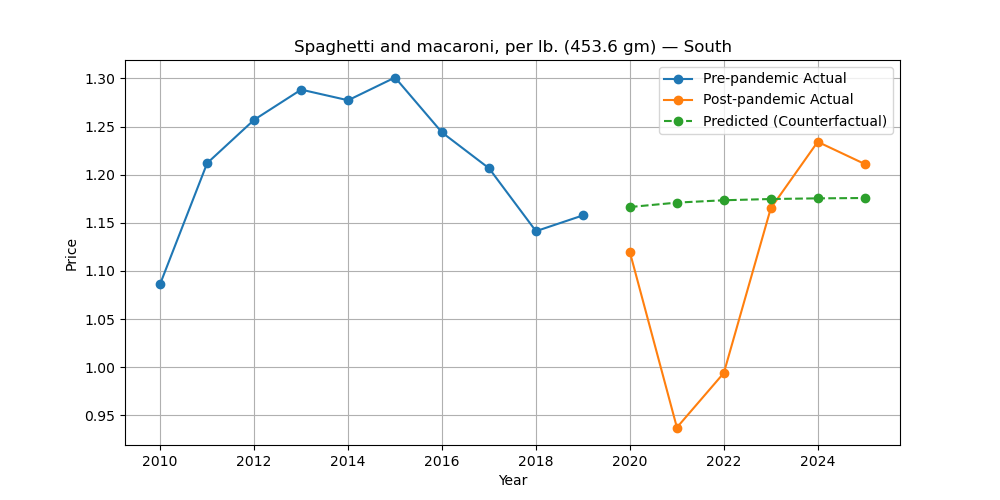
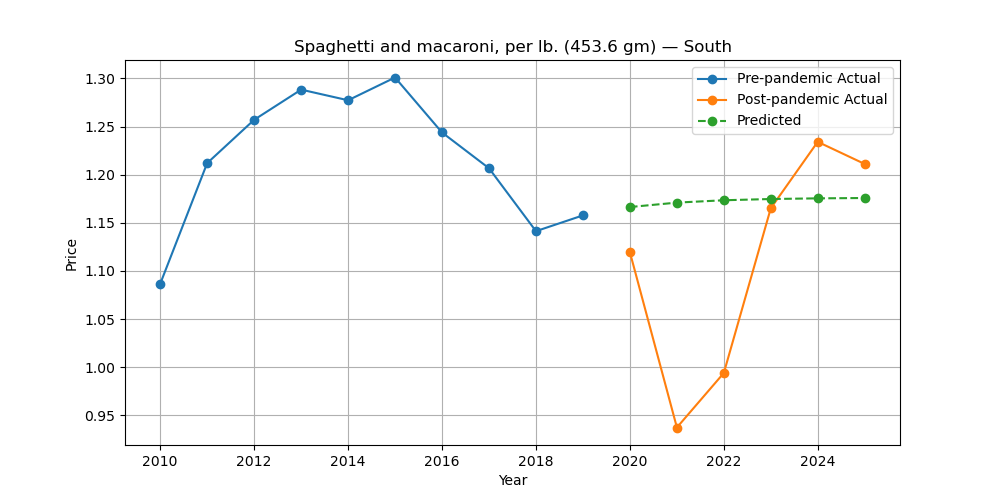
pushing all the graphs generated by ARIMA where we have enough data

Changed region(s): [[0.651, 0.15, 0.899, 0.27]]

diff --git a/algorithmic_analysis/ARIMA_forecast.py b/algorithmic_analysis/ARIMA_forecast.py
@@ -2,25 +2,22 @@ import pandas as pd
 from statsmodels.tsa.arima.model import ARIMA
 import matplotlib.pyplot as plt
 
+import warnings
+
+# Ignore ValueWarning messages
+warnings.filterwarnings("ignore", category=UserWarning)  # catch general UserWarnings
+
+
 plt.ion()
 
 df = pd.read_csv("cleaned_data/cleaned_bls_data.csv")
 
-regions = df['area_name'].unique()
+regions = ["Midwest", "Northeast", "South", "West"]
 
 df['year'] = pd.to_datetime(df['year'], format='%Y')
 
 foods = [
-    "Rice, white, long grain, uncooked, per lb. (453.6 gm)",
-    "Apples, Red Delicious, per lb. (453.6 gm)",
-    "Ground chuck, 100% beef, per lb. (453.6 gm)",
-    "Cookies, chocolate chip, per lb. (453.6 gm)",
-    "Milk, fresh, low-fat, reduced fat, skim, per gal. (3.8 lit)",
-    "Eggs, grade AA, large, per doz.",
-    "Potatoes, white (cost per pound/453.6 grams)",
-    "Spaghetti and macaroni, per lb. (453.6 gm)",
-    "Cola, nondiet, per 2 liters (67.6 oz)",
-    "Coffee, 100%, ground roast, all sizes, per lb. (453.6 gm)"
+    'All Ham (Excluding Canned Ham and Luncheon Slices), per lb. (453.6 gm)', 'All Other Pork (Excluding Canned Ham and Luncheon Slices), per lb. (453.6 gm)', 'All Pork Chops, per lb. (453.6 gm)', 'All Uncooked Beef Roasts, per lb. (453.6 gm)', 'All Uncooked Beef Steaks, per lb. (453.6 gm)', 'All Uncooked Other Beef (Excluding Veal), per lb. (453.6 gm)', 'All soft drinks, per 2 liters (67.6 oz)', 'All uncooked ground beef, per lb. (453.6 gm)', 'American processed cheese, per lb. (453.6 gm)', 'Bacon, sliced, per lb. (453.6 gm)', 'Bananas, per lb. (453.6 gm)', 'Bread, white, pan, per lb. (453.6 gm)', 'Cheddar cheese, natural, per lb. (453.6 gm)', 'Chicken breast, boneless, per lb. (453.6 gm)', 'Chicken legs, bone-in, per lb. (453.6 gm)', 'Chicken, fresh, whole, per lb. (453.6 gm)', 'Chops, boneless, per lb. (453.6 gm)', 'Chuck roast, USDA Choice, boneless, per lb. (453.6 gm)', 'Grapefruit, per lb. (453.6 gm)', 'Ground beef, 100% beef, per lb. (453.6 gm)', 'Ham, boneless, excluding canned, per lb. (453.6 gm)', 'Ice cream, prepackaged, bulk, regular, per 1/2 gal. (1.9 lit)', 'Lemons, per lb. (453.6 gm)', 'Malt beverages, all types, all sizes, any origin, per 16 oz. (473.2 ml)', 'Milk, fresh, low-fat, reduced fat, skim, per gal. (3.8 lit)', 'Milk, fresh, whole, fortified, per gal. (3.8 lit)', 'Oranges, Navel, per lb. (453.6 gm)', 'Potato chips, per 16 oz.', 'Potatoes, white, per lb. (453.6 gm)', 'Round roast, USDA Choice, boneless, per lb. (453.6 gm)', 'Spaghetti and macaroni, per lb. (453.6 gm)', 'Steak, round, USDA Choice, boneless, per lb. (453.6 gm)', 'Steak, sirloin, USDA Choice, boneless, per lb. (453.6 gm)', 'Tomatoes, field grown, per lb. (453.6 gm)', 'Wine, red and white table, all sizes, any origin, per 1 liter (33.8 oz)', 'Yogurt, per 8 oz. (226.8 gm)'
 ]
 
 results = {}
@@ -34,21 +31,38 @@ for food in foods:
             print("subset empty")
             continue
 
-        series = subset.groupby('year')['value'].mean().sort_index()
+        series = subset.groupby('year')['value'].mean().sort_index().dropna().squeeze()
 
+        # Pre/post split
         pre = series[(series.index.year >= 2010) & (series.index.year <= 2019)]
         post = series[series.index.year >= 2020]
 
-        if len(pre) < 3 or len(post) == 0:
+        # Check enough points and variation
+        if len(pre) < 2:
+            print("Not enough pre-pandemic data")
+            continue
+        if pre.nunique() <= 1:
+            print("Pre-pandemic series has no variation")
+            continue
+        if len(post) == 0:
+            print("Not enough post-pandemic data")
             continue
 
+        # Fit ARIMA robustly
         try:
             model = ARIMA(pre, order=(1,1,0))
             model_fit = model.fit()
-        except:
-            model = ARIMA(pre, order=(0,1,1))
-            model_fit = model.fit()
+        except Exception as e:
+            print(f"ARIMA failed with (1,1,0): {e}")
+            try:
+                model = ARIMA(pre, order=(0,1,1))
+                model_fit = model.fit()
+            except Exception as e2:
+                print(f"ARIMA failed with (0,1,1): {e2}")
+                continue
 
+
+        # to see years from 2020-2025
         n_years = len(post)
         forecast = model_fit.get_forecast(steps=n_years)
         predicted = forecast.predicted_mean
@@ -68,7 +82,7 @@ for food in foods:
         plt.figure(figsize=(10,5))
         plt.plot(pre.index, pre, label='Pre-pandemic Actual', marker='o')
         plt.plot(post.index, post, label='Post-pandemic Actual', marker='o')
-        plt.plot(predicted.index, predicted, label='Predicted (Counterfactual)', linestyle='--', marker='o')
+        plt.plot(predicted.index, predicted, label='Predicted', linestyle='--', marker='o')
         plt.title(f"{food} — {region}")
         plt.xlabel("Year")
         plt.ylabel("Price")
@@ -77,7 +91,7 @@ for food in foods:
         plt.show()
 
         try:
-            plt.savefig(f"AR{food}_{region}.png")
+            plt.savefig(f"ARIMA graphs/{food}_{region}.png")
             print("Plot saved successfully")
         except Exception as e:
             print("Error saving plot:", e)
